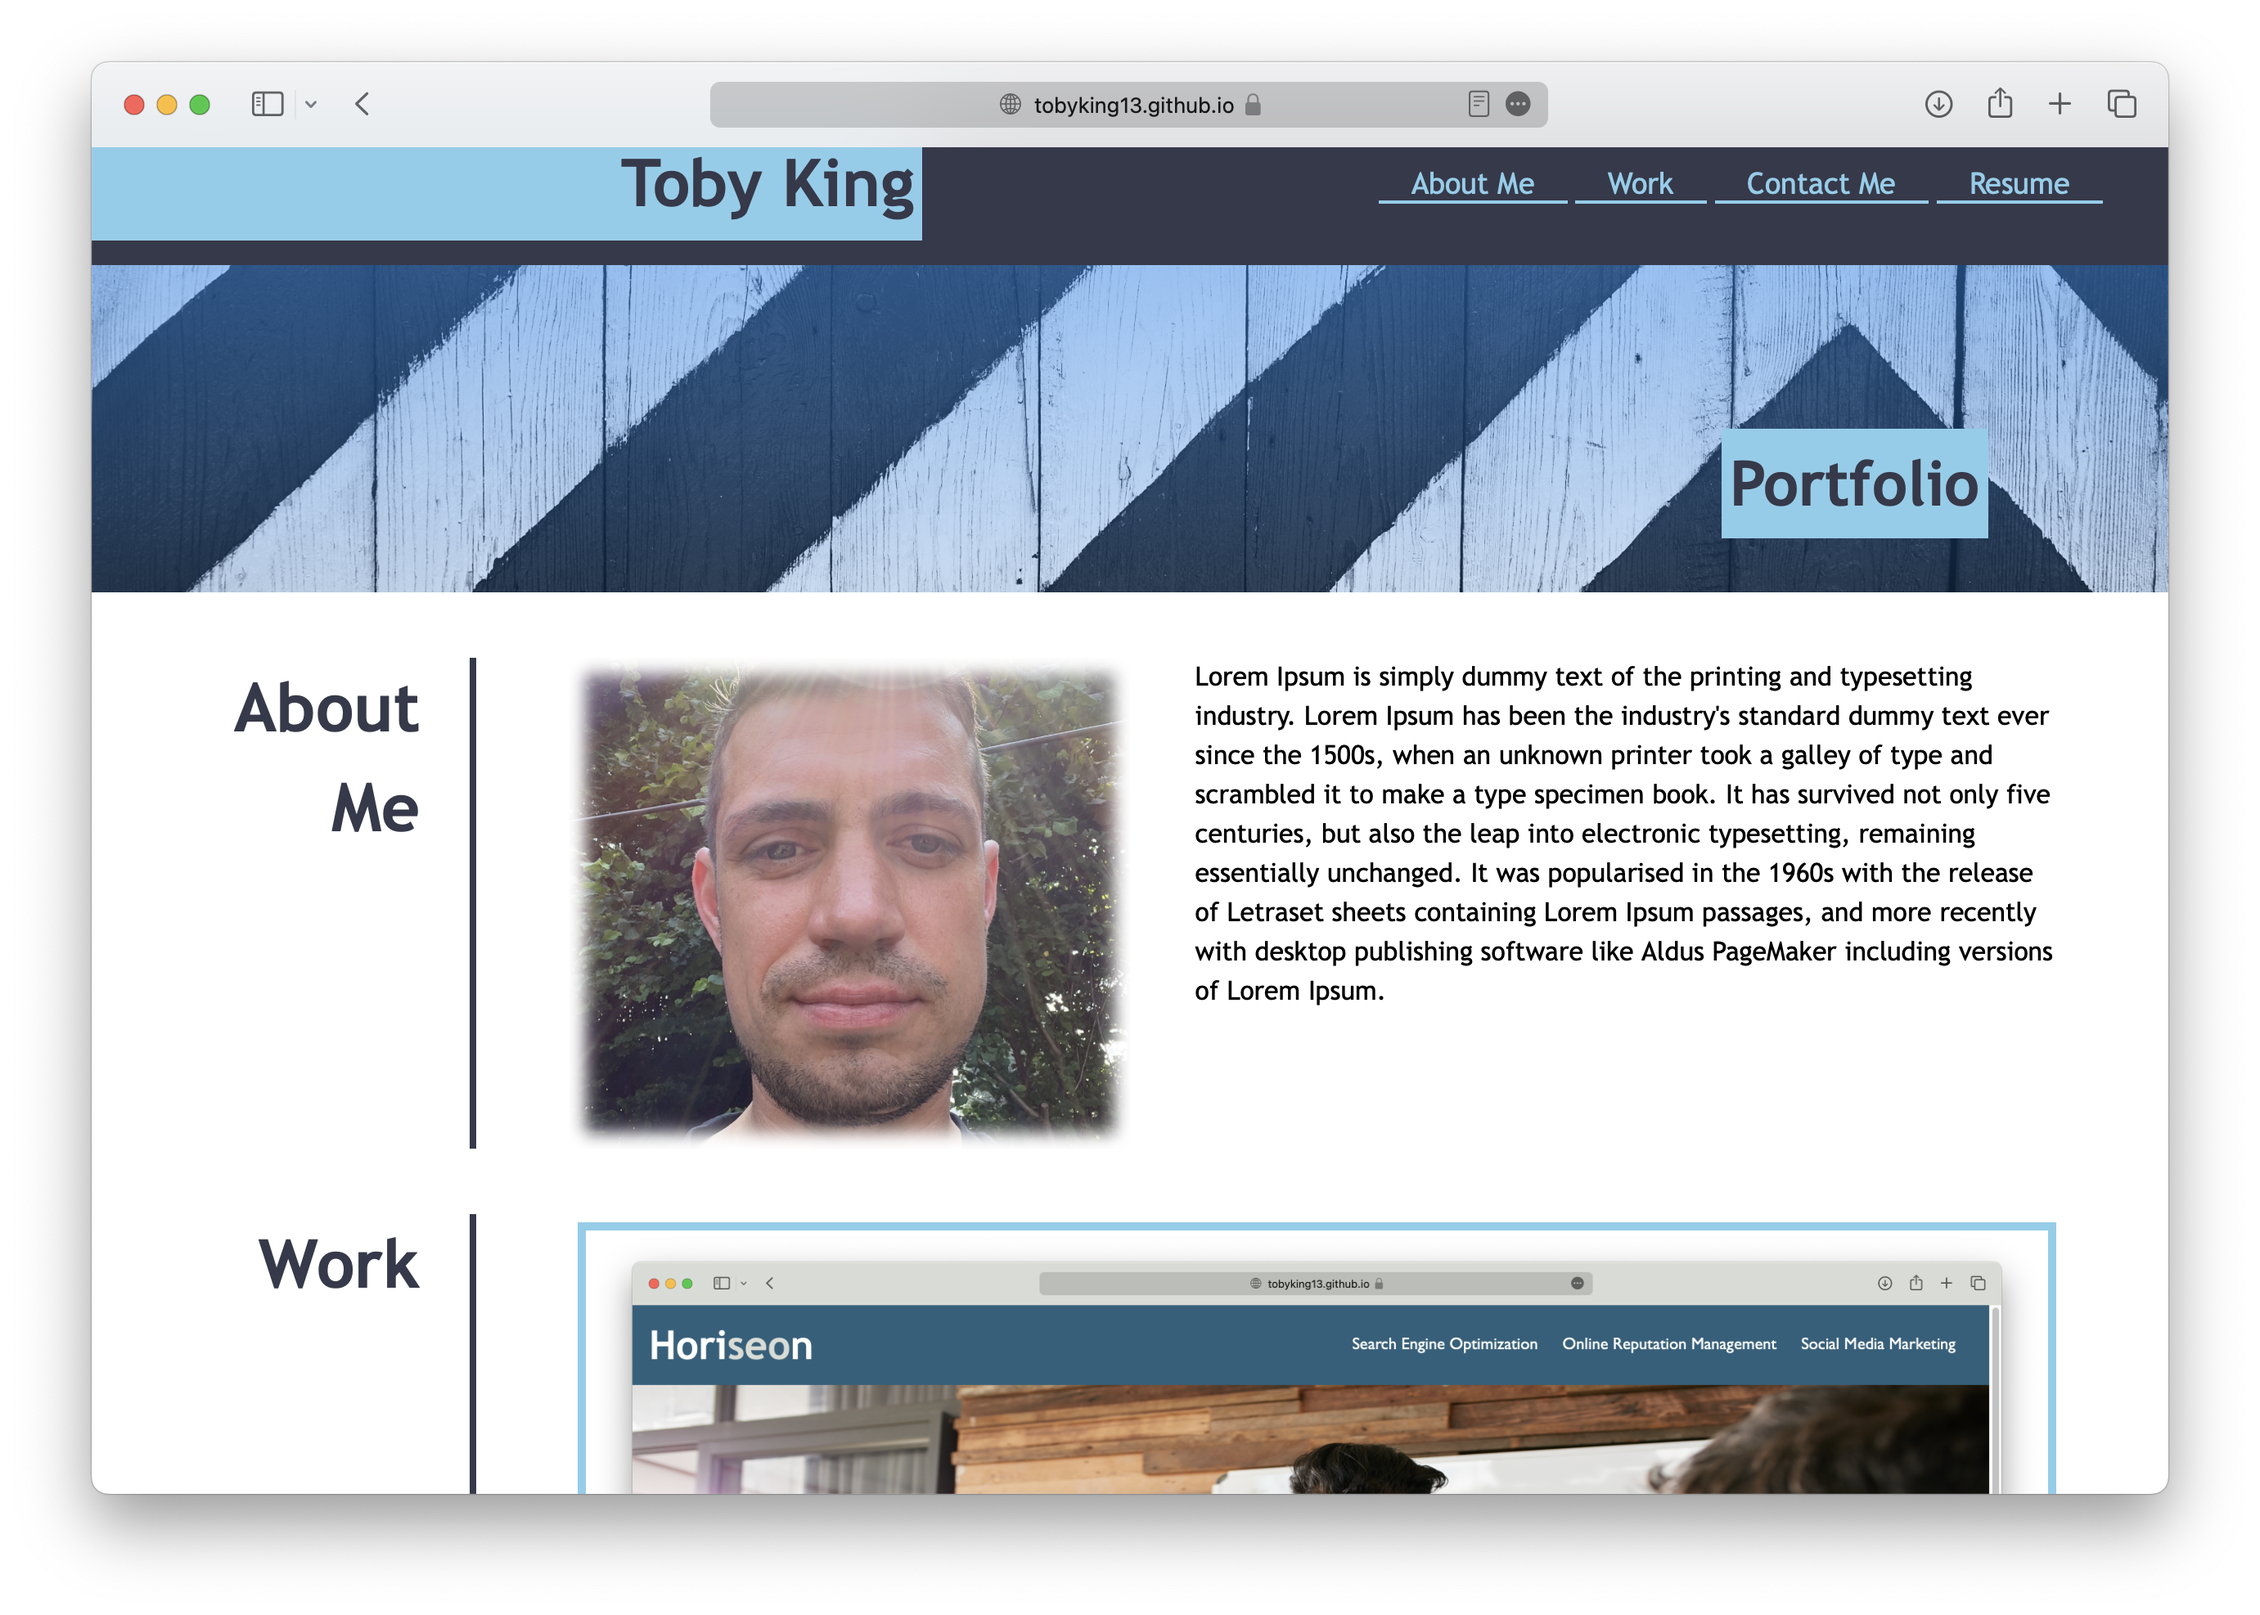
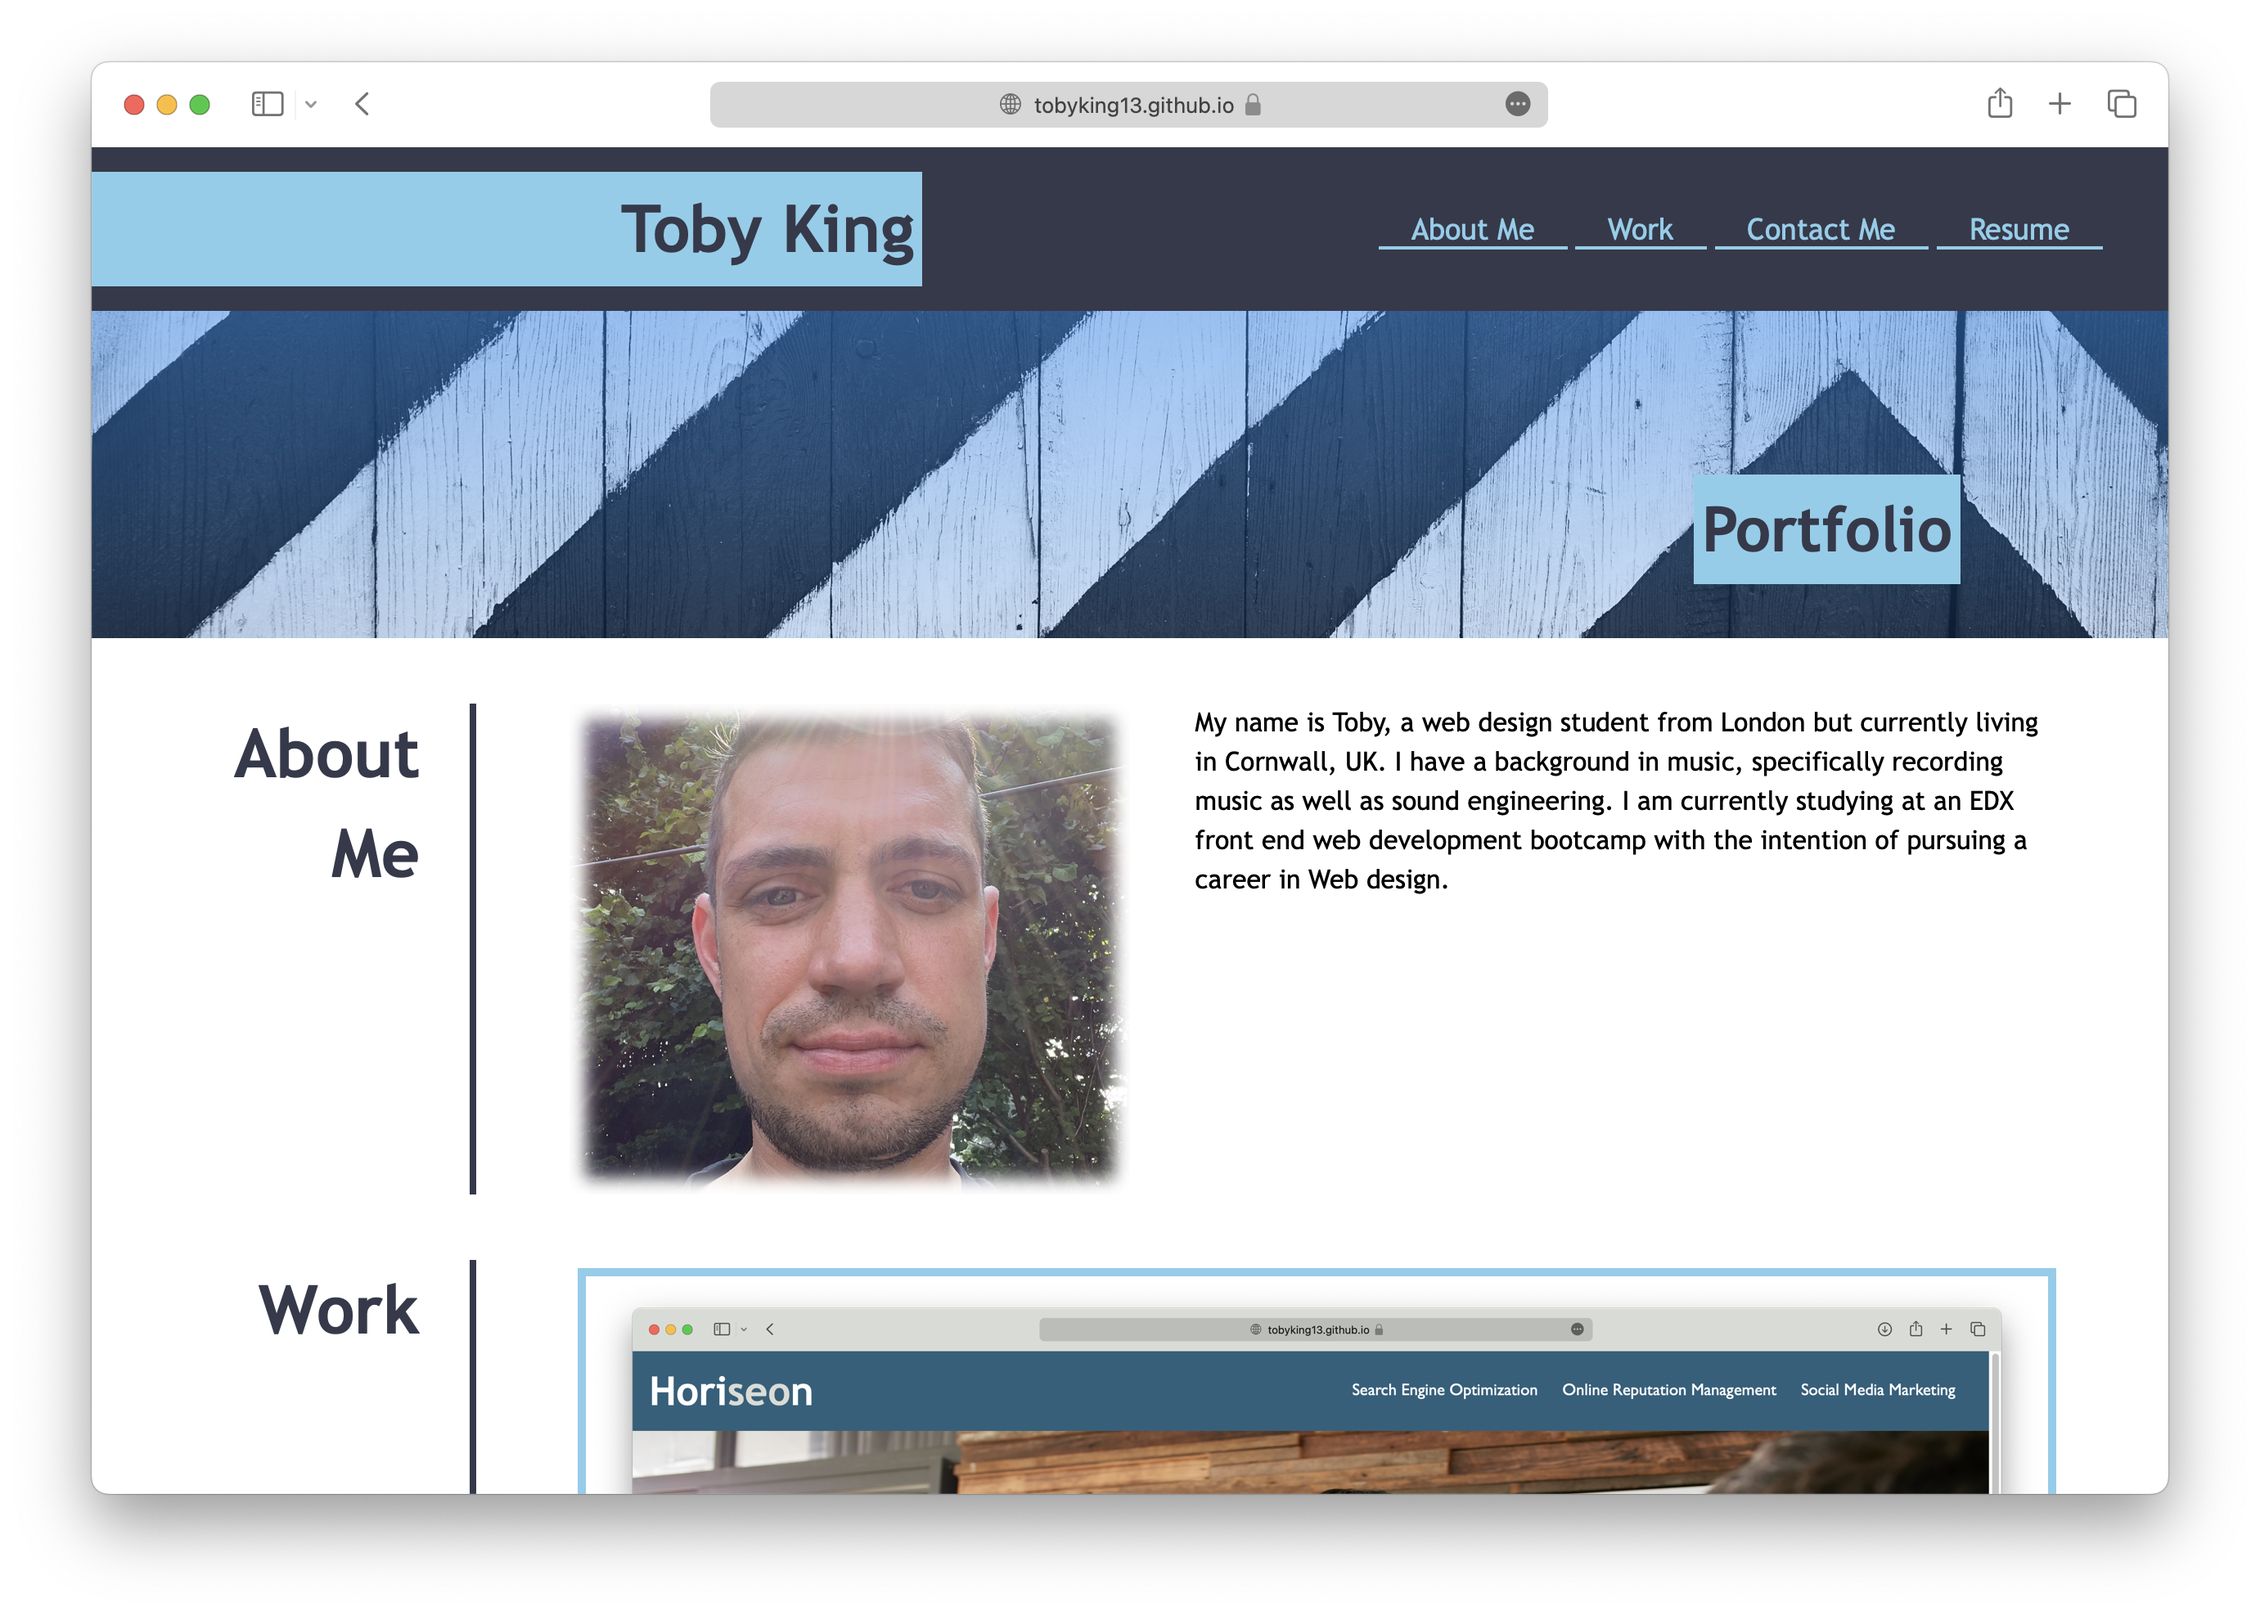
updates screenshot in README.md

Changed region(s): [[0.0311, 0.0618, 0.9652, 0.9271], [0.0934, 0.4326, 0.1868, 0.5562], [0.0934, 0.7725, 0.1868, 0.8343]]

diff --git a/index.html b/index.html
@@ -40,7 +40,11 @@
         <div id="img"></div>
         <div id="content">
           <p>
-            My name is Toby, a web design student from London but currently living in Cornwall, UK. I have a background in music, specifically recording music as well as sound engineering. I am currently studying at an EDX front end web development bootcamp with the intention of pursuing a career in Web design.
+            My name is Toby, a web design student from London but currently
+            living in Cornwall, UK. I have a background in music, specifically
+            recording music as well as sound engineering. I am currently
+            studying at an EDX front end web development bootcamp with the
+            intention of pursuing a career in Web design.
           </p>
         </div>
       </section>
@@ -50,7 +54,11 @@
         <div id="work">
           <h2>Work</h2>
         </div>
-        <a href="https://tobyking13.github.io/toby-king-challenge1-refactoring/" id="work-1" class="portfolioGridArea">
+        <a
+          href="https://tobyking13.github.io/toby-king-challenge1-refactoring/"
+          id="work-1"
+          class="portfolioGridArea"
+        >
           <div>
             <div class="portfolioHeading">Horiseon</div>
             <div class="portfolioParagraph">HTML / CSS Refactoring</div>
